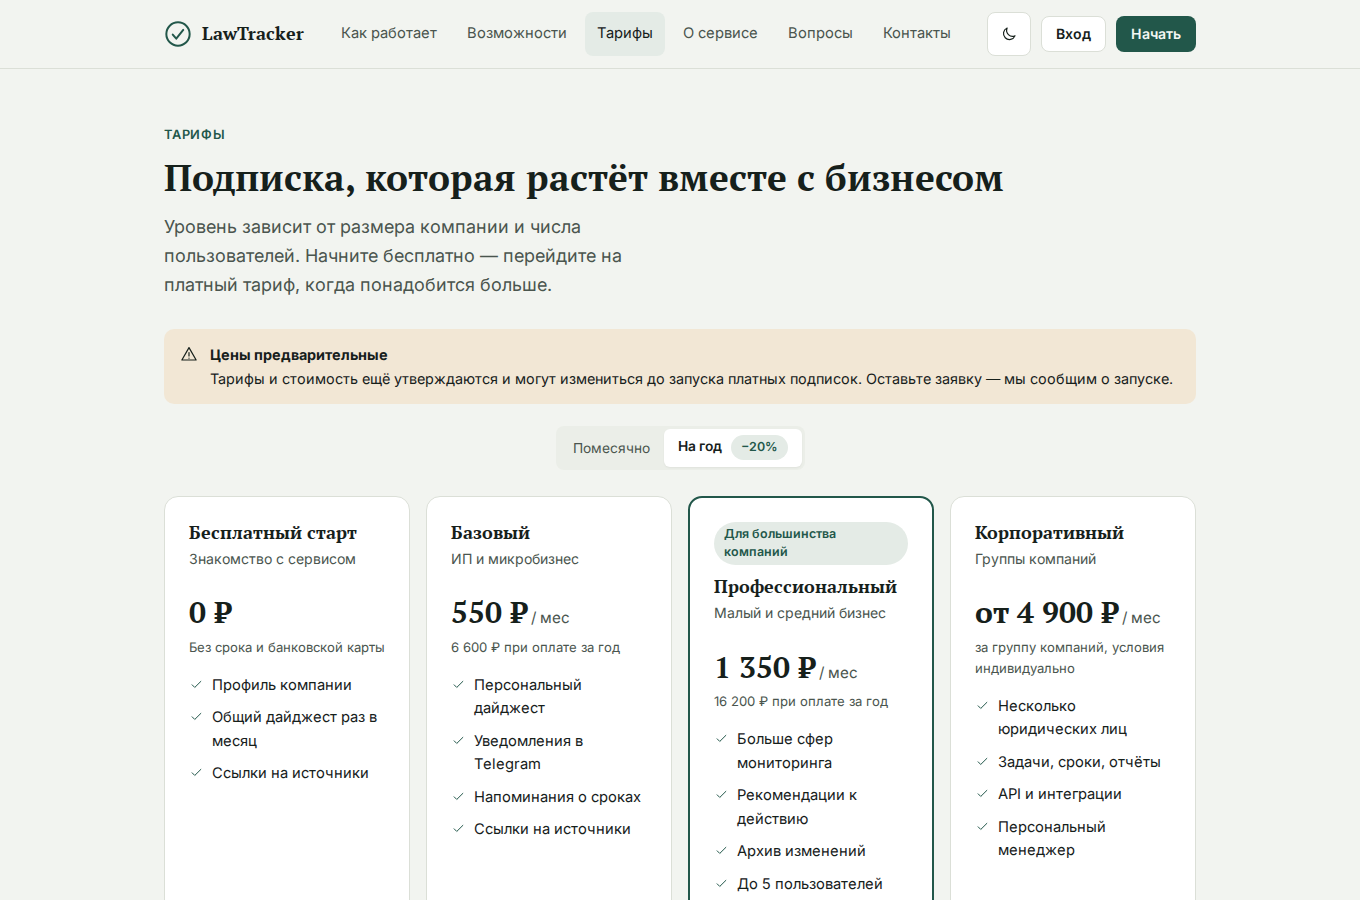
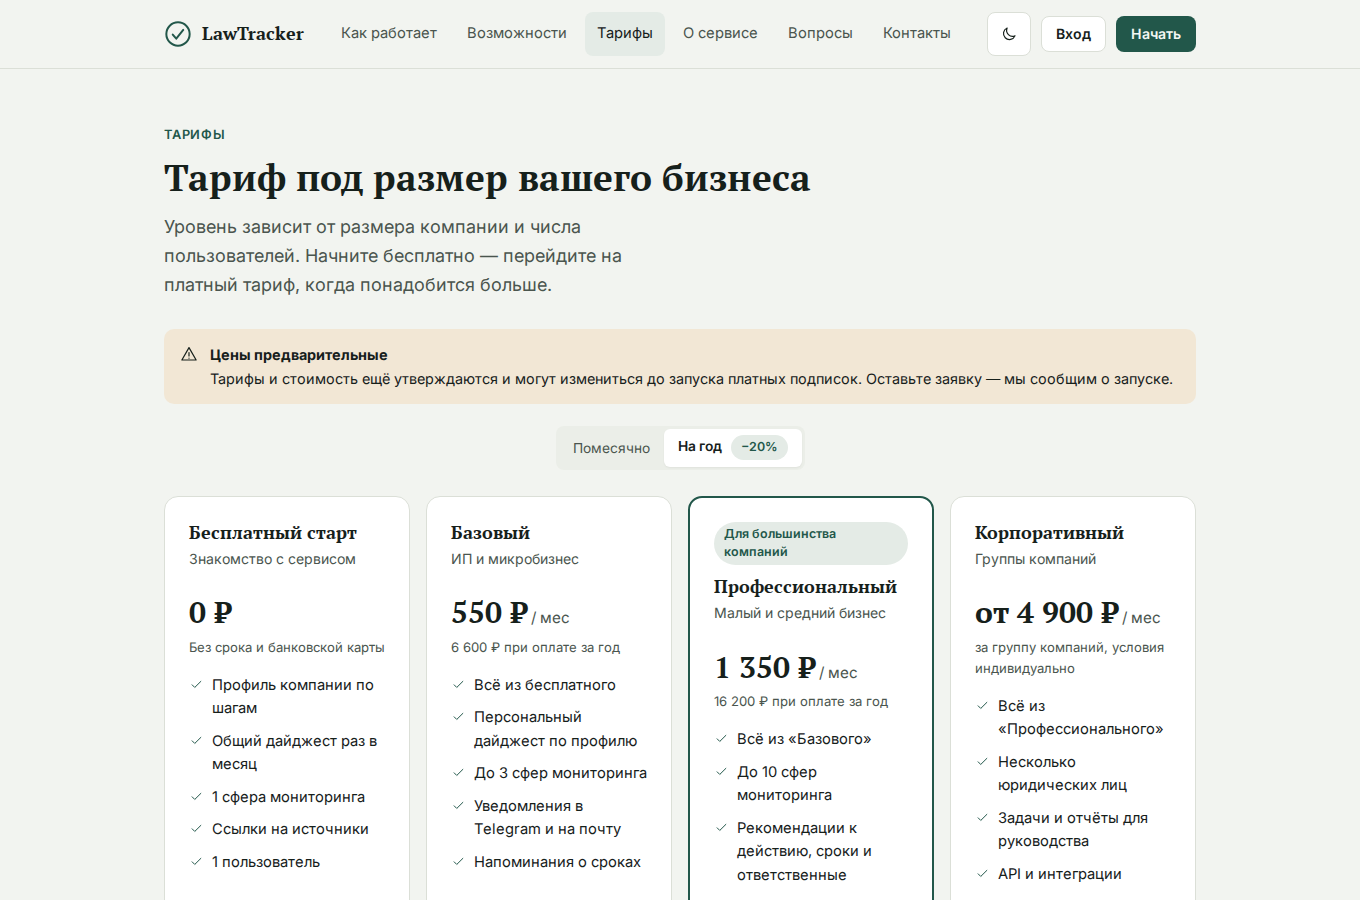
Define tariff features and rename pricing heading
Claude-Session: https://claude.ai/code/session_01ADSquzsspwAL5eKo1c74of

diff --git a/index.html b/index.html
@@ -773,22 +773,22 @@ const CH = Object.fromEntries(CHANGES.map(c => [c.id, c]));
 
 /* tariffs — prices are PLACEHOLDERS until the pricing model is approved */
 const PLANS = [
-  { id: 'free', name: 'Бесплатный старт', short: 'Старт', for: 'Знакомство с сервисом', m: 0, y: 0, users: 1, areas: 1, cta: 'Начать', feat: ['Профиль компании', 'Общий дайджест раз в месяц', 'Ссылки на источники'] },
-  { id: 'basic', name: 'Базовый', short: 'Базовый', for: 'ИП и микробизнес', m: 690, y: 6600, users: 1, areas: 3, cta: 'Запросить доступ', feat: ['Персональный дайджест', 'Уведомления в Telegram', 'Напоминания о сроках', 'Ссылки на источники'] },
-  { id: 'pro', name: 'Профессиональный', short: 'Проф.', for: 'Малый и средний бизнес', m: 1690, y: 16200, users: 5, areas: 10, cta: 'Запросить доступ', featured: true, feat: ['Больше сфер мониторинга', 'Рекомендации к действию', 'Архив изменений', 'До 5 пользователей'] },
-  { id: 'corp', name: 'Корпоративный', short: 'Корп.', for: 'Группы компаний', m: null, y: null, from: 4900, users: null, areas: null, cta: 'Связаться', feat: ['Несколько юридических лиц', 'Задачи, сроки, отчёты', 'API и интеграции', 'Персональный менеджер'] }
+  { id: 'free', name: 'Бесплатный старт', short: 'Старт', for: 'Знакомство с сервисом', m: 0, y: 0, users: 1, areas: 1, cta: 'Начать', feat: ['Профиль компании по шагам', 'Общий дайджест раз в месяц', '1 сфера мониторинга', 'Ссылки на источники', '1 пользователь'] },
+  { id: 'basic', name: 'Базовый', short: 'Базовый', for: 'ИП и микробизнес', m: 690, y: 6600, users: 1, areas: 3, cta: 'Запросить доступ', feat: ['Всё из бесплатного', 'Персональный дайджест по профилю', 'До 3 сфер мониторинга', 'Уведомления в Telegram и на почту', 'Напоминания о сроках'] },
+  { id: 'pro', name: 'Профессиональный', short: 'Проф.', for: 'Малый и средний бизнес', m: 1690, y: 16200, users: 5, areas: 10, cta: 'Запросить доступ', featured: true, feat: ['Всё из «Базового»', 'До 10 сфер мониторинга', 'Рекомендации к действию, сроки и ответственные', 'Архив изменений', 'До 5 пользователей с ролями'] },
+  { id: 'corp', name: 'Корпоративный', short: 'Корп.', for: 'Группы компаний', m: null, y: null, from: 4900, users: null, areas: null, cta: 'Связаться', feat: ['Всё из «Профессионального»', 'Несколько юридических лиц', 'Задачи и отчёты для руководства', 'API и интеграции', 'Персональный менеджер'] }
 ];
 const PLAN = id => PLANS.find(p => p.id === id) || PLANS[0];
 const T = true, N = false;
 const MATRIX = [
   ['Мониторинг', null],
-  ['Профиль компании', [T, T, T, T]], ['Персональный дайджест', ['Общий, раз в месяц', T, T, T]], ['Сферы мониторинга', ['1', '3', '10', 'Без ограничений']], ['Ссылки на первоисточники', [T, T, T, T]],
+  ['Профиль компании', [T, T, T, T]], ['Подбор изменений по профилю', ['Общий дайджест', T, T, T]], ['Объяснение «почему это показано вам»', [N, T, T, T]], ['Сферы мониторинга', ['1', '3', '10', 'Без ограничений']], ['Статус документа, уровень уверенности, ссылки на источники', [T, T, T, T]],
   ['Уведомления', null],
-  ['Кабинет и почта', [T, T, T, T]], ['Уведомления в Telegram', [N, T, T, T]], ['Напоминания о сроках', [N, T, T, T]],
+  ['Кабинет и почта', ['Раз в месяц', T, T, T]], ['Уведомления в Telegram', [N, T, T, T]], ['Настройка частоты, категорий и порога значимости', [N, T, T, T]], ['Напоминания о сроках', [N, T, T, T]],
   ['Работа с изменениями', null],
-  ['Рекомендации к действию', [N, N, T, T]], ['Архив изменений', [N, N, T, T]], ['Задачи, сроки и отчёты', [N, N, N, T]],
+  ['Сохранённое и отметки «прочитано»', [T, T, T, T]], ['Рекомендации к действию, сроки и ответственные', [N, N, T, T]], ['Статусы выполнения действий', [N, N, T, T]], ['Архив изменений', [N, N, T, T]], ['Задачи и отчёты для руководства', [N, N, N, T]],
   ['Команда и компании', null],
-  ['Пользователи', ['1', '1', 'до 5', 'Без ограничений']], ['Несколько юридических лиц', [N, N, N, T]],
+  ['Пользователи', ['1', '1', 'до 5', 'Без ограничений']], ['Роли и доступы', [N, N, T, T]], ['Несколько юридических лиц', [N, N, N, T]],
   ['Интеграции и поддержка', null],
   ['API и интеграции', [N, N, N, T]], ['Поддержка', ['Почта', 'Почта', 'Приоритетная', 'Персональный менеджер']]
 ];
@@ -1055,7 +1055,7 @@ function viewHome() {
 </div></section>
 
 <!-- 10. PRICING -->
-<section id="pricing" class="hq-sec"><div class="wrap"><div class="hq-sh"><p class="eyebrow">Тарифы</p><h2>Подписка, которая растёт вместе с бизнесом</h2><p>Уровень зависит от размера компании. Цены ориентировочные: тарифы утверждаются — оставьте заявку, и мы сообщим о запуске. <a class="link" href="#/pricing">Все тарифы и сравнение →</a></p></div>
+<section id="pricing" class="hq-sec"><div class="wrap"><div class="hq-sh"><p class="eyebrow">Тарифы</p><h2>Тариф под размер вашего бизнеса</h2><p>Уровень зависит от размера компании. Цены ориентировочные: тарифы утверждаются — оставьте заявку, и мы сообщим о запуске. <a class="link" href="#/pricing">Все тарифы и сравнение →</a></p></div>
   <div class="hq-price">${PLANS.map(p => `<div class="hq-pl ${p.featured ? 'hq-f' : ''}">${p.featured ? '<span class="tag" style="align-self:flex-start;margin-bottom:10px">Для большинства компаний</span>' : ''}<h3>${p.name}</h3><p class="hq-for">${p.for}</p><div class="hq-pr">${p.m === null ? `от <b>${money(p.from)}</b> / мес` : p.m === 0 ? '<b>0 ₽</b>' : `<b>${money(p.m)}</b> / мес`}</div><ul>${p.feat.map(x => `<li>${ic('check', 'sm')}<span>${x}</span></li>`).join('')}</ul><a class="btn ${p.featured ? 'btn-primary' : 'btn-ghost'}" href="#/${p.id === 'corp' ? 'contacts' : 'register'}">${p.cta}</a></div>`).join('')}</div></div></section>
 
 <!-- 11. TRUST -->
@@ -1103,7 +1103,7 @@ function matrixHTML(cur) {
 function viewPricing() {
   const card = p => `<div class="plan ${p.featured ? 'featured' : ''}">${p.featured ? '<span class="tag" style="align-self:flex-start;margin-bottom:10px">Для большинства компаний</span>' : ''}<h3>${p.name}</h3><p class="for">${p.for}</p>${priceBlock(p)}<ul>${p.feat.map(x => `<li>${ic('check', 'sm')}<span>${x}</span></li>`).join('')}</ul><a class="btn ${p.featured ? 'btn-primary' : 'btn-ghost'}" href="#/${p.id === 'corp' ? 'contacts' : 'register'}">${p.cta}</a></div>`;
   const faq = [['Можно ли начать бесплатно?', 'Да. Бесплатный старт включает профиль компании и общий дайджест раз в месяц — без срока и без банковской карты.'], ['Как оплачивать подписку?', 'Способы оплаты и закрывающие документы для юридических лиц уточняются и будут опубликованы перед запуском платных тарифов.'], ['Можно ли сменить тариф?', 'Да, тариф можно повысить или понизить в разделе «Тариф и оплата». Условия перерасчёта будут опубликованы вместе с тарифами.'], ['Чем отличается годовая оплата?', 'При оплате за год предполагается скидка около 20 %. Точные условия утверждаются.']];
-  return pubShell(`<div class="wrap"><div class="page-hero"><p class="eyebrow">Тарифы</p><h1>Подписка, которая растёт вместе с бизнесом</h1><p class="lede" style="margin-top:0">Уровень зависит от размера компании и числа пользователей. Начните бесплатно — перейдите на платный тариф, когда понадобится больше.</p></div>
+  return pubShell(`<div class="wrap"><div class="page-hero"><p class="eyebrow">Тарифы</p><h1>Тариф под размер вашего бизнеса</h1><p class="lede" style="margin-top:0">Уровень зависит от размера компании и числа пользователей. Начните бесплатно — перейдите на платный тариф, когда понадобится больше.</p></div>
     <div class="banner amber" style="margin-bottom:22px">${ic('alert')}<div class="b-body"><strong>Цены предварительные</strong>Тарифы и стоимость ещё утверждаются и могут измениться до запуска платных подписок. Оставьте заявку — мы сообщим о запуске.</div></div>
     <div style="display:flex;justify-content:center;margin-bottom:26px"><div class="segmented" role="group" aria-label="Период оплаты"><button data-act="bill" data-v="m" aria-pressed="${BILL === 'm'}">Помесячно</button><button data-act="bill" data-v="y" aria-pressed="${BILL === 'y'}">На год <span class="tag" style="margin-left:6px">−20%</span></button></div></div>
     <div class="price-grid">${PLANS.map(card).join('')}</div>

diff --git a/home-mockup.html b/home-mockup.html
@@ -224,12 +224,12 @@ footer{padding:54px 0 40px}.fc{display:grid;grid-template-columns:1.4fr 1fr 1fr 
 </div></section>
 
 <!-- 10. PRICING -->
-<section id="pricing"><div class="w"><div class="sh"><p class="eyebrow">Тарифы</p><h2>Подписка, которая растёт вместе с бизнесом</h2><p>Уровень зависит от размера компании. Цены ориентировочные: тарифы утверждаются — оставьте заявку, и мы сообщим о запуске. <a href="index.html#/pricing" style="color:var(--accent);font-weight:600">Все тарифы и сравнение →</a></p></div>
+<section id="pricing"><div class="w"><div class="sh"><p class="eyebrow">Тарифы</p><h2>Тариф под размер вашего бизнеса</h2><p>Уровень зависит от размера компании. Цены ориентировочные: тарифы утверждаются — оставьте заявку, и мы сообщим о запуске. <a href="index.html#/pricing" style="color:var(--accent);font-weight:600">Все тарифы и сравнение →</a></p></div>
   <div class="price">
-    <div class="pl"><h3>Бесплатный старт</h3><p class="for">Знакомство с сервисом</p><div class="pr"><b style="font-size:1.6rem">0 ₽</b></div><ul><li><i data-i="check"></i>Профиль компании</li><li><i data-i="check"></i>Общий дайджест раз в месяц</li></ul><a class="btn btn-g" href="index.html#/register">Начать</a></div>
-    <div class="pl"><h3>Базовый</h3><p class="for">ИП и микробизнес</p><div class="pr"><b style="font-size:1.6rem">690 ₽</b> / мес</div><ul><li><i data-i="check"></i>Персональный дайджест</li><li><i data-i="check"></i>Уведомления в Telegram</li><li><i data-i="check"></i>Напоминания о сроках</li><li><i data-i="check"></i>Ссылки на источники</li></ul><a class="btn btn-g" href="index.html#/register">Запросить доступ</a></div>
-    <div class="pl f"><span class="tag" style="align-self:flex-start;margin-bottom:10px">Для большинства компаний</span><h3>Профессиональный</h3><p class="for">Малый и средний бизнес</p><div class="pr"><b style="font-size:1.6rem">1 690 ₽</b> / мес</div><ul><li><i data-i="check"></i>Больше сфер мониторинга</li><li><i data-i="check"></i>Рекомендации к действию</li><li><i data-i="check"></i>Архив изменений</li><li><i data-i="check"></i>Несколько пользователей</li></ul><a class="btn btn-p" href="index.html#/register">Запросить доступ</a></div>
-    <div class="pl"><h3>Корпоративный</h3><p class="for">Группы компаний</p><div class="pr">от <b style="font-size:1.6rem">4 900 ₽</b> / мес</div><ul><li><i data-i="check"></i>Несколько юрлиц</li><li><i data-i="check"></i>Задачи, сроки, отчёты</li><li><i data-i="check"></i>API и интеграции</li><li><i data-i="check"></i>Персональный менеджер</li></ul><a class="btn btn-g" href="#contacts">Связаться</a></div>
+    <div class="pl"><h3>Бесплатный старт</h3><p class="for">Знакомство с сервисом</p><div class="pr"><b style="font-size:1.6rem">0 ₽</b></div><ul><li><i data-i="check"></i>Профиль компании по шагам</li><li><i data-i="check"></i>Общий дайджест раз в месяц</li><li><i data-i="check"></i>1 сфера мониторинга</li><li><i data-i="check"></i>Ссылки на источники</li><li><i data-i="check"></i>1 пользователь</li></ul><a class="btn btn-g" href="index.html#/register">Начать</a></div>
+    <div class="pl"><h3>Базовый</h3><p class="for">ИП и микробизнес</p><div class="pr"><b style="font-size:1.6rem">690 ₽</b> / мес</div><ul><li><i data-i="check"></i>Всё из бесплатного</li><li><i data-i="check"></i>Персональный дайджест по профилю</li><li><i data-i="check"></i>До 3 сфер мониторинга</li><li><i data-i="check"></i>Уведомления в Telegram и на почту</li><li><i data-i="check"></i>Напоминания о сроках</li></ul><a class="btn btn-g" href="index.html#/register">Запросить доступ</a></div>
+    <div class="pl f"><span class="tag" style="align-self:flex-start;margin-bottom:10px">Для большинства компаний</span><h3>Профессиональный</h3><p class="for">Малый и средний бизнес</p><div class="pr"><b style="font-size:1.6rem">1 690 ₽</b> / мес</div><ul><li><i data-i="check"></i>Всё из «Базового»</li><li><i data-i="check"></i>До 10 сфер мониторинга</li><li><i data-i="check"></i>Рекомендации к действию, сроки и ответственные</li><li><i data-i="check"></i>Архив изменений</li><li><i data-i="check"></i>До 5 пользователей с ролями</li></ul><a class="btn btn-p" href="index.html#/register">Запросить доступ</a></div>
+    <div class="pl"><h3>Корпоративный</h3><p class="for">Группы компаний</p><div class="pr">от <b style="font-size:1.6rem">4 900 ₽</b> / мес</div><ul><li><i data-i="check"></i>Всё из «Профессионального»</li><li><i data-i="check"></i>Несколько юридических лиц</li><li><i data-i="check"></i>Задачи и отчёты для руководства</li><li><i data-i="check"></i>API и интеграции</li><li><i data-i="check"></i>Персональный менеджер</li></ul><a class="btn btn-g" href="#contacts">Связаться</a></div>
   </div></div></section>
 
 <!-- 11. TRUST -->
